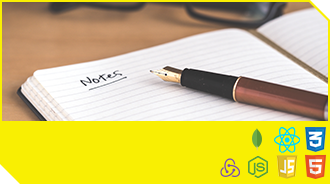
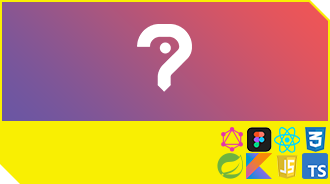
Add new images and update styles in Skills section

diff --git a/src/Skills/Skills.jsx b/src/Skills/Skills.jsx
@@ -41,16 +41,16 @@ export default function Skills({ i, deRef, d3Ref, coRef }) {
           whileInView={{ opacity: 1 }}
           viewport={{ once: true }}
           ref={refs[i]}
-          className="  relative flex h-max w-full  flex-col gap-[10vw] lg:top-0 lg:h-[80vh]    "
+          className="  relative flex h-max w-full  flex-col gap-[10vw] lg:top-0 lg:h-[80vh]  "
         >
-          <div className="relative left-[10vw] z-10 flex h-max w-[80vw] flex-col gap-[2vw] overflow-hidden bg-[#f9ef02] bg-auto bg-left text-center lg:left-0 lg:top-[35px] lg:h-[240px] lg:w-[30vw] lg:gap-[18px] lg:bg-opacity-0 lg:bg-SkillsTitleBG lg:text-start xl:h-[271px] xl:gap-[12px] xl:bg-cover  xxl:h-[300px] xxl:gap-[20px]">
+          <div className="relative left-[10vw]  z-10 flex h-max w-[80vw] flex-col gap-[2vw] overflow-hidden bg-[#f9ef02] bg-auto bg-left text-center lg:left-0 lg:top-[35px] lg:h-[240px] lg:w-[500px] lg:gap-[18px] lg:bg-opacity-0 lg:bg-SkillsTitleBG lg:text-start xl:h-[271px] xl:gap-[12px] xl:bg-cover  xxl:h-[300px] xxl:gap-[20px]">
             <p className="relative pt-[2vw] font-Oxanium text-[22px] font-semibold lg:left-[50px] lg:top-[12px] lg:p-0 lg:text-[40px] xl:text-[56px]">
               {Array[i].title}
             </p>
-            <div className="relative flex justify-center lg:justify-start">
-              <div className="relative bottom-0 h-[1px] w-[70vw]  bg-black lg:left-[53px] lg:w-[30vw]"></div>
+            <div className="relative flex justify-center lg:justify-start ">
+              <div className="relative bottom-0 h-[1px] w-[70vw]  bg-black lg:left-[53px] lg:w-[30vw] "></div>
             </div>
-            <p className="relative pl-[20px] pr-[20px] font-Oxanium text-[14px] font-extralight sm:text-[16px]  lg:left-[50px]  lg:w-[25vw] lg:p-0  xl:text-[22px] xxl:text-[30px] xxl:leading-8">
+            <p className="relative pl-[20px]  pr-[20px] font-Oxanium text-[14px] font-extralight sm:text-[16px]  lg:left-[50px] w-[400px]  lg:w-[400px] xl:w-[400px] lg:p-0  xl:text-[22px] xxl:text-[30px] xxl:leading-8">
               {Array[i].subTitle}
             </p>
             <div className="relative flex flex-row justify-center gap-[5px] pb-[2.5vw] lg:bottom-[0px] lg:left-[50px] lg:justify-start  xl:bottom-[0px]  ">
@@ -118,6 +118,54 @@ export default function Skills({ i, deRef, d3Ref, coRef }) {
               ) : (
                 false
               )}
+              {Array[i].titleIcon8 ? (
+                <a href={Array[i].titleIconLink8} target="_blank" rel="Ai">
+                  <motion.img
+                    variants={iconVar}
+                    whileHover={'whilehover'}
+                    src={Array[i].titleIcon8}
+                    className="relative w-[30px] cursor-pointer "
+                  />
+                </a>
+              ) : (
+                false
+              )}
+              {Array[i].titleIcon9 ? (
+                <a href={Array[i].titleIconLink9} target="_blank" rel="Ai">
+                  <motion.img
+                    variants={iconVar}
+                    whileHover={'whilehover'}
+                    src={Array[i].titleIcon9}
+                    className="relative w-[30px] cursor-pointer "
+                  />
+                </a>
+              ) : (
+                false
+              )}
+              {Array[i].titleIcon10 ? (
+                <a href={Array[i].titleIconLink10} target="_blank" rel="Ai">
+                  <motion.img
+                    variants={iconVar}
+                    whileHover={'whilehover'}
+                    src={Array[i].titleIcon10}
+                    className="relative w-[30px] cursor-pointer "
+                  />
+                </a>
+              ) : (
+                false
+              )}
+              {Array[i].titleIcon11 ? (
+                <a href={Array[i].titleIconLink11} target="_blank" rel="Ai">
+                  <motion.img
+                    variants={iconVar}
+                    whileHover={'whilehover'}
+                    src={Array[i].titleIcon11}
+                    className="relative w-[30px] cursor-pointer "
+                  />
+                </a>
+              ) : (
+                false
+              )}
             </div>
           </div>
           <motion.div
@@ -129,7 +177,7 @@ export default function Skills({ i, deRef, d3Ref, coRef }) {
           >
             <img
               src={Array[i].mainFrame}
-              className="   relative w-[80vw] border-2 border-[#f9ef02] lg:w-[800px] xl:w-[1036.8px] xxl:w-[60vw] "
+              className="   relative w-[80vw] border-2 border-[#f9ef02] lg:w-[950px] xl:w-[1000px] xxl:w-[1300px] "
             />
           </motion.div>
 

diff --git a/src/AboutMe/AboutMe.jsx b/src/AboutMe/AboutMe.jsx
@@ -26,9 +26,9 @@ export default function AboutMe({ scrollToDesign, scrollTo3D, scrollToCoding }) 
               ME MYSELF & I
             </p>
             <p className="relative left-[20px] w-[78vw] pr-[50px] pb-[10px] text-[22px] font-extralight leading-6 lg:w-[31vw] lg:pr-[2vw]">
-              I'm a passionate web designer & front-end developer based in Switzerland. My
-              goal is to stay consistent in my desire to improve, so that I'll one day be
-              able to make a big impact with my skills.
+              I'm a web developer based in Switzerland with full-stack capabilities. I'm
+              dedicated to enhancing my skills and expanding my knowledge in the field. My
+              goal is to use my expertise in web development to make a meaningful impact.
             </p>
           </motion.div>
           <motion.div
@@ -48,9 +48,10 @@ export default function AboutMe({ scrollToDesign, scrollTo3D, scrollToCoding }) 
               DESIGN
             </p>
             <p className="relative left-[20px] w-[78vw] pr-[50px] pb-[10px] text-[22px] font-extralight leading-6 lg:w-[31vw] lg:pr-[2vw]">
-              Around 2015 I started setting foot in graphical design with photoshop.
-              Working in the TV branche as a graphic & motion designer, I've created
-              countless flyers, posters, videos etc. Right now I'm more focused on web
+              Back in 2015, I began my journey in the world of graphical design, starting
+              with Photoshop. Working in the TV industry as a graphic and motion designer,
+              I had the privilege of crafting numerous flyers, posters, videos, and more.
+              While my roots are in graphic design, my focus has since shifted towards web
               design.
             </p>
           </motion.div>
@@ -72,10 +73,12 @@ export default function AboutMe({ scrollToDesign, scrollTo3D, scrollToCoding }) 
               3D
             </p>
             <p className="relative left-[20px] w-[78vw] pr-[50px] pb-[10px] text-[22px] font-extralight leading-6 lg:w-[31vw] lg:pr-[2vw]">
-              In 2020 I started creating Motion Design & Pictures with 3D. It has been
-              very joyful working with all kinds of 3D Softwares. With Three.js I was able
-              to implement my 3D knowledge with front-end coding. Creating 3D in React has
-              been a game changer for me.
+              In 2020, I delved into the exciting realm of Motion Design and 3D Art.
+              Working with various 3D software has been an immensely rewarding experience.
+              Notably, my exploration led me to Three.js, allowing me to seamlessly
+              integrate my 3D expertise with front-end coding. Implementing 3D elements in
+              React has been a transformative experience, opening up new possibilities and
+              expanding my skillset.
             </p>
           </motion.div>
           <motion.div

diff --git a/src/Skills/SkillsArray.jsx b/src/Skills/SkillsArray.jsx
@@ -20,6 +20,10 @@ import CodingIcon4 from '../Images/SkillsImg/CodingIcon4.png';
 import CodingIcon5 from '../Images/SkillsImg/CodingIcon5.png';
 import CodingIcon6 from '../Images/SkillsImg/CodingIcon6.png';
 import CodingIcon7 from '../Images/SkillsImg/CodingIcon7.svg';
+import CodingIcon8 from '../Images/SkillsImg/CodingIcon8.png';
+import CodingIcon9 from '../Images/SkillsImg/CodingIcon9.png';
+import CodingIcon10 from '../Images/SkillsImg/CodingIcon10.svg';
+import CodingIcon11 from '../Images/SkillsImg/CodingIcon11.svg';
 export default [
   {
     title: 'Design',
@@ -57,7 +61,7 @@ export default [
   },
   {
     title: 'Coding',
-    subTitle: 'Front-End / Designing & Creating Websites',
+    subTitle: 'Apps / Games / Websites ',
     titleIcon1: CodingIcon1,
     titleIcon2: CodingIcon2,
     titleIcon3: CodingIcon3,
@@ -65,6 +69,10 @@ export default [
     titleIcon5: CodingIcon5,
     titleIcon6: CodingIcon6,
     titleIcon7: CodingIcon7,
+    titleIcon8: CodingIcon8,
+    titleIcon9: CodingIcon9,
+    titleIcon10: CodingIcon10,
+    titleIcon11: CodingIcon11,
     titleIconLink1: 'https://www.freecodecamp.org/news/html-css-and-javascript-explained-for-beginners/',
     titleIconLink2: 'https://nodejs.org/en/',
     titleIconLink3: 'https://www.mongodb.com/',
@@ -72,6 +80,10 @@ export default [
     titleIconLink5: 'https://threejs.org/',
     titleIconLink6: 'https://www.typescriptlang.org/',
     titleIconLink7: 'https://redux.js.org/',
+    titleIconLink8: 'https://www.figma.com/',
+    titleIconLink9: 'https://kotlinlang.org/',
+    titleIconLink10: 'https://spring.io/projects/spring-boot/',
+    titleIconLink11: 'https://graphql.org/',
     mainFrame:  CodingMainImg ,
   },
 ];

diff --git a/src/Skills/SkillsMiniFrameArray.jsx b/src/Skills/SkillsMiniFrameArray.jsx
@@ -17,6 +17,7 @@ import CodingMobile4 from '../Images/SkillsImg/CodingMobile4.jpg';
 import YoutubeIcon from '../Images/YoutubeIcon.png';
 import ArtstationIcon from '../Images/Artstation.png';
 import DWIcon from '../Images/DWIcon.png';
+import GizAppIcon from '../Images/GizAppIcon.png';
 
 export default [
   [
@@ -65,14 +66,14 @@ export default [
   ],
   [
     {
-      text1: 'Notes App',
-      text2: 'Simple MERN Stack App',
-      text3: '2022',
+      text1: 'GizApp',
+      text2: 'Plan gaming sessions',
+      text3: '2023 - ongoing',
       backgroundImage: Coding3,
       backgroundMobileImage: CodingMobile3,
-      link: 'https://notesdw.up.railway.app/login',
-      linkText: 'View on MernAppJL',
-      linkIcon: DWIcon,
+      link: 'https://gizapp.net',
+      linkText: 'View on GizApp.net',
+      linkIcon: GizAppIcon,
     },
     {
       text1: 'Tic Tac Toe',

diff --git a/src/Skills/SkillsMiniFrameMap.jsx b/src/Skills/SkillsMiniFrameMap.jsx
@@ -62,7 +62,7 @@ export default function SkillsMF({ mainI }) {
       initial="offscreen"
       whileInView="onscreen"
       viewport={{ once: true, margin: '50px' }}
-      className="relative  flex  w-full flex-col  items-center gap-[5vw] lg:absolute lg:top-[58vh] lg:right-[7vw] lg:w-max lg:flex-row lg:items-start lg:gap-[2vw] xxl:top-[50vh] xxl:gap-[1vw]"
+      className="relative flex  w-full flex-col  items-center gap-[5vw] lg:absolute lg:top-[500px] lg:right-[7vw] lg:w-max lg:flex-row lg:items-start lg:gap-[2vw] xl:top-[500px] xxl:top-[650px] xxl:gap-[1vw]"
     >
       {mfEl}
     </motion.div>
